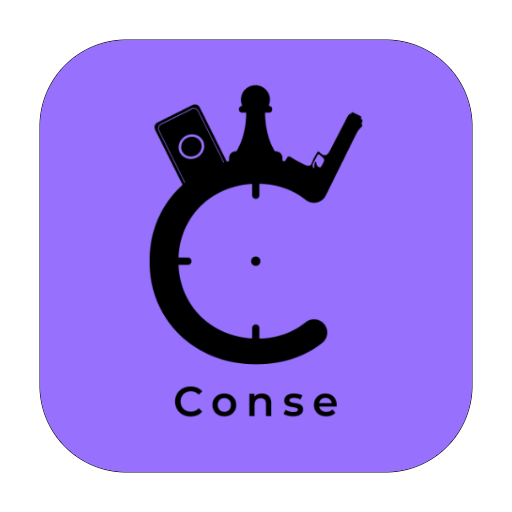
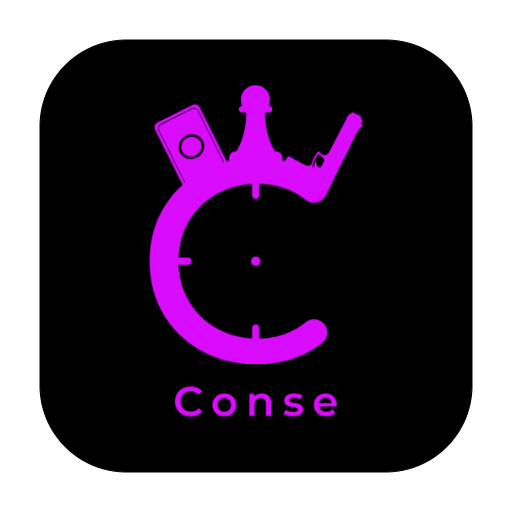
changing manifest.json and pwa again

diff --git a/pages/_document.js b/pages/_document.js
@@ -6,8 +6,8 @@ class MyDocument extends Document {
             <Html>
                 <Head>
                     <link rel="manifest" href="/manifest.json" />
-                    <link rel="apple-touch-icon" href="/icons/icon-256x256.png"></link>
-                    <meta name="theme-color" content="#0F4393" />
+                    <link rel="apple-touch-icon" href="/icon512_maskable.png"></link>
+                    <meta name="theme-color" content="#8936FF" />
                 </Head>
                 <body>
                 <Main />
